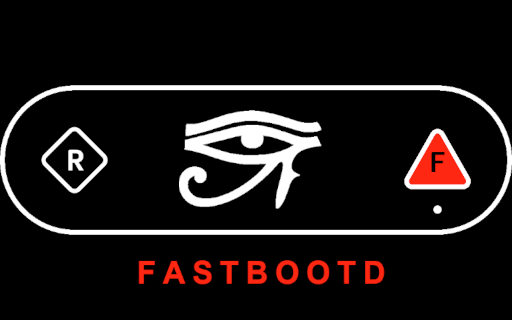
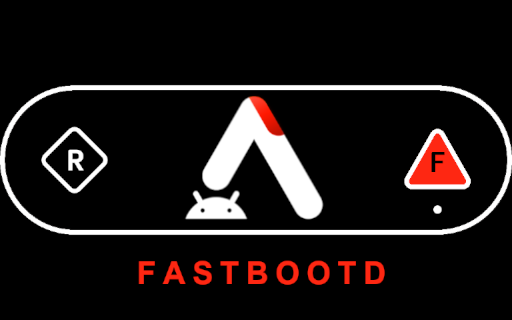
Initial rebrand

Changed region(s): [[0.3438, 0.2812, 0.6562, 0.6875], [0.375, 0.8125, 0.75, 0.9062], [0.2812, 0.8125, 0.3438, 0.875]]

diff --git a/recovery_ui/screen_ui.cpp b/recovery_ui/screen_ui.cpp
@@ -803,7 +803,7 @@ void ScreenRecoveryUI::draw_menu_and_text_buffer_locked(
   int y = margin_height_;
 
   if (menu_) {
-    auto& logo = fastbootd_logo_enabled_ ? fastbootd_logo_ : lineage_logo_;
+    auto& logo = fastbootd_logo_enabled_ ? fastbootd_logo_ : default_logo;
     auto logo_width = gr_get_width(logo.get());
     auto logo_height = gr_get_height(logo.get());
     auto centered_x = ScreenWidth() / 2 - logo_width / 2;
@@ -1044,10 +1044,10 @@ bool ScreenRecoveryUI::Init(const std::string& locale) {
   back_icon_sel_ = LoadBitmap("ic_back_sel");
   if (android::base::GetBoolProperty("ro.boot.dynamic_partitions", false) ||
       android::base::GetBoolProperty("ro.fastbootd.available", false)) {
-    lineage_logo_ = LoadBitmap("logo_image_switch");
+    default_logo = LoadBitmap("logo_image_switch");
     fastbootd_logo_ = LoadBitmap("fastbootd");
   } else {
-    lineage_logo_ = LoadBitmap("logo_image");
+    default_logo = LoadBitmap("logo_image");
   }
 
   // Background text for "installing_update" could be "installing update" or
@@ -1375,8 +1375,8 @@ int ScreenRecoveryUI::SelectMenu(const Point& p) {
   if (menu_) {
     if (!menu_->IsMain()) {
       // Back arrow hitbox
-      const static int logo_width = gr_get_width(lineage_logo_.get());
-      const static int logo_height = gr_get_height(lineage_logo_.get());
+      const static int logo_width = gr_get_width(default_logo.get());
+      const static int logo_height = gr_get_height(default_logo.get());
       const static int icon_w = gr_get_width(back_icon_.get());
       const static int icon_h = gr_get_height(back_icon_.get());
       const static int centered_x = ScreenWidth() / 2 - logo_width / 2;

diff --git a/recovery.cpp b/recovery.cpp
@@ -846,7 +846,7 @@ Device::BuiltinAction start_recovery(Device* device, const std::vector<std::stri
   std::string ver = android::base::GetProperty("ro.modversion", "");
 
   std::vector<std::string> title_lines = {
-    "Version " + android::base::GetProperty("ro.crdroid.build.version", "(unknown)"),
+    "Version " + android::base::GetProperty("ro.alpha.build.version", "(unknown)"),
   };
   if (android::base::GetBoolProperty("ro.build.ab_update", false)) {
     std::string slot = android::base::GetProperty("ro.boot.slot_suffix", "");

diff --git a/recovery_ui/include/recovery_ui/screen_ui.h b/recovery_ui/include/recovery_ui/screen_ui.h
@@ -462,7 +462,7 @@ class ScreenRecoveryUI : public RecoveryUI, public DrawInterface {
   std::unique_ptr<GRSurface> wipe_data_confirmation_text_;
   std::unique_ptr<GRSurface> wipe_data_menu_header_text_;
 
-  std::unique_ptr<GRSurface> lineage_logo_;
+  std::unique_ptr<GRSurface> default_logo;
   std::unique_ptr<GRSurface> back_icon_;
   std::unique_ptr<GRSurface> back_icon_sel_;
   std::unique_ptr<GRSurface> fastbootd_logo_;
